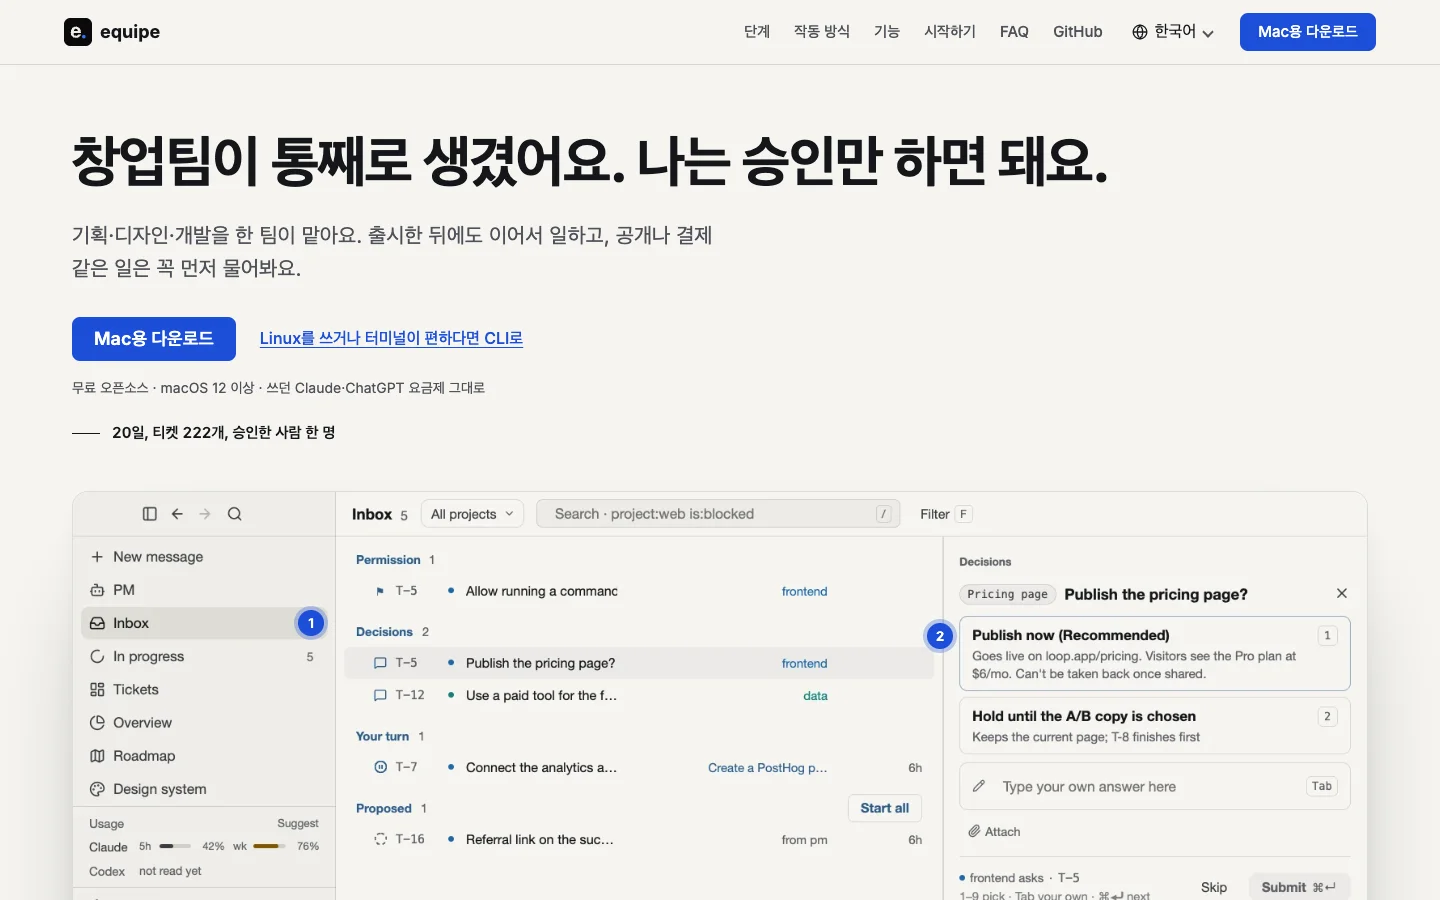
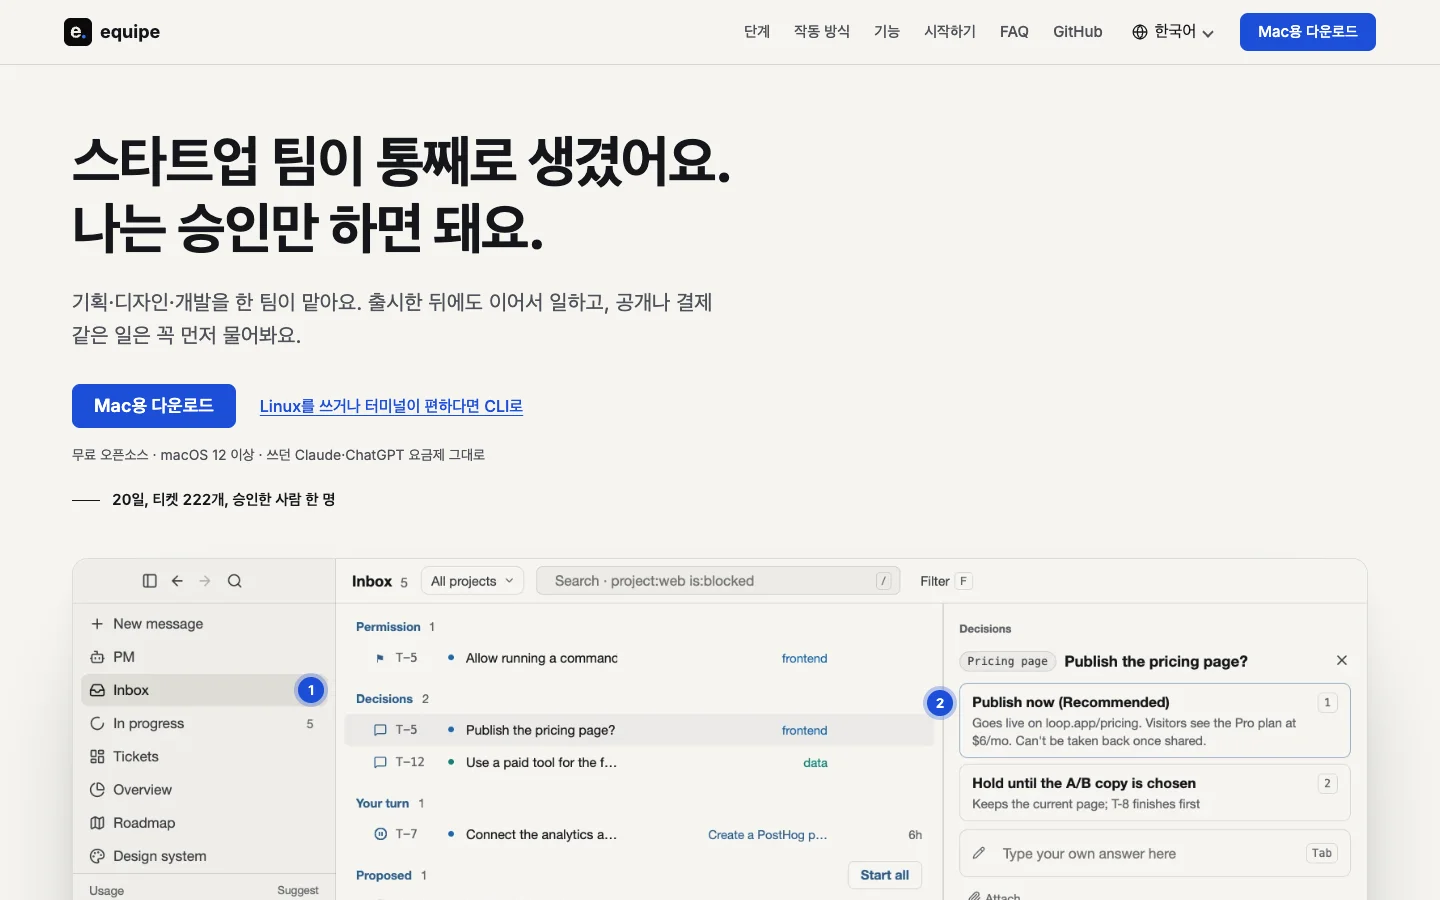
T-159: ko 제목·title·og를 '스타트업 팀이 통째로 생겼어요. 나는 승인만 하면 돼요.'로 (사람 결정 2026-11-01)

diff --git a/src/i18n/ko.ts b/src/i18n/ko.ts
@@ -2,10 +2,10 @@ import type { Messages } from './en';
 
 const ko: Messages = {
   meta: {
-    title: 'equipe — 창업팀이 통째로 생겼어요. 나는 승인만 하면 돼요.',
+    title: 'equipe — 스타트업 팀이 통째로 생겼어요. 나는 승인만 하면 돼요.',
     description:
       'equipe는 AI 스쿼드예요. PM·디자이너·엔지니어가 아이디어부터 출시, 그 뒤 성장까지 제품을 계속 키워요. 내 Mac에서 쓰던 Claude나 ChatGPT 요금제로 일하고, 내보내기 전엔 꼭 물어봐요.',
-    ogTitle: 'equipe — 창업팀이 통째로 생겼어요. 나는 승인만 하면 돼요.',
+    ogTitle: 'equipe — 스타트업 팀이 통째로 생겼어요. 나는 승인만 하면 돼요.',
     ogDescription:
       'equipe는 AI 스쿼드예요. PM·디자이너·엔지니어가 아이디어부터 출시, 그 뒤 성장까지 제품을 계속 키워요. 내 Mac에서 쓰던 Claude나 ChatGPT 요금제로 일하고, 내보내기 전엔 꼭 물어봐요.',
     ogImageAlt: 'equipe — 한 사람이 이끄는 AI 코딩 에이전트 스쿼드',
@@ -27,7 +27,7 @@ const ko: Messages = {
   },
   nav: { stage: '단계', howItWorks: '작동 방식', features: '기능', getStarted: '시작하기', faq: 'FAQ', github: 'GitHub' },
   hero: {
-    title: '창업팀이 통째로 생겼어요. 나는 승인만 하면 돼요.',
+    title: '스타트업 팀이 통째로 생겼어요. 나는 승인만 하면 돼요.',
     lead: '기획·디자인·개발을 한 팀이 맡아요. 출시한 뒤에도 이어서 일하고, 공개나 결제 같은 일은 꼭 먼저 물어봐요.',
     cta: 'Mac용 다운로드',
     req: '무료 오픈소스 · macOS 12 이상 · 쓰던 Claude·ChatGPT 요금제 그대로',
